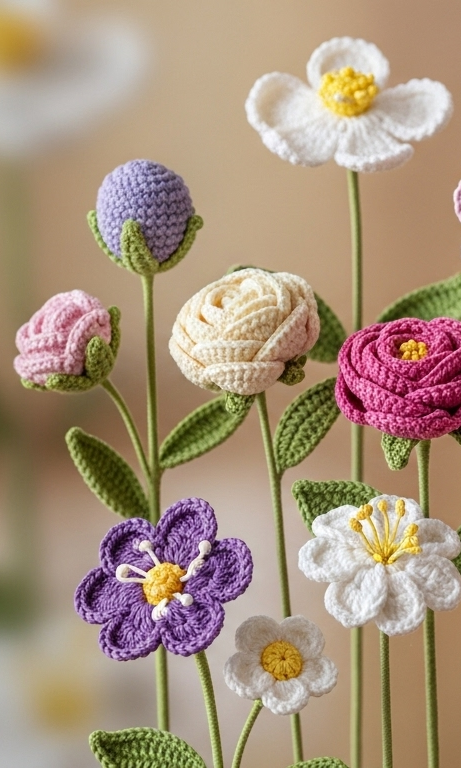
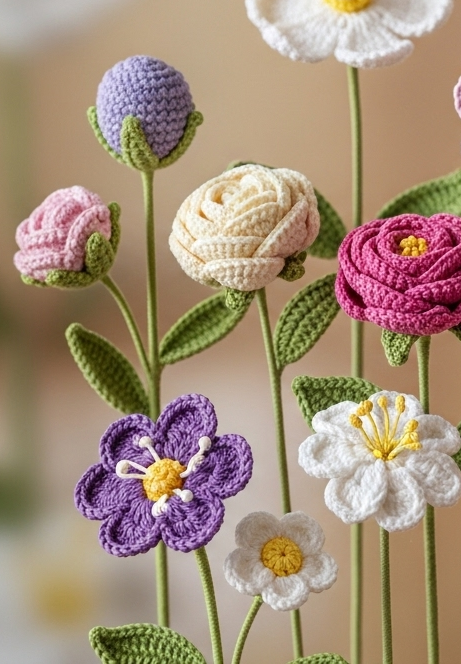
Frontend home page ui enhancement.

diff --git a/web-frontend/src/components/ProductCategories.tsx b/web-frontend/src/components/ProductCategories.tsx
@@ -1,4 +1,4 @@
-import { Button } from "./ui/button";
+import { Button } from "./ui/button"; 
 import { Card, CardContent } from "./ui/card";
 import { ImageWithFallback } from "./figma/ImageWithFallback";
 import { ArrowRight } from "lucide-react";
@@ -9,15 +9,13 @@ interface ProductCategoriesProps {
 }
 
 export function ProductCategories({ onNavigate, categories }: ProductCategoriesProps) {
-  // If categories are still loading (null or undefined), don't render the fallback static content —
-  // return null to avoid a flash of hardcoded categories on initial page load.
   if (categories == null) return null;
 
   const fallback = [
     {
       name: "Flowers",
       description: "Beautiful blooms that last forever",
-      image: "https://images.unsplash.com/photo-1575175090204-0a470102fc40?crop=entropy&cs=tinysrgb&fit=max&fm=jpg&ixid=M3w3Nzg4Nzd8MHwxfHNlYXJjaHwxfHxjcm9jaGV0JTIwZmxvd2VycyUyMGhhbmRtYWRlJTIwY29sb3JmdWx8ZW58MXx8fHwxNzU5MzE5NzUzfDA&ixlib=rb-4.1.0&q=80&w=1080&utm_source=figma&utm_medium=referral",
+      image: "https://images.unsplash.com/photo-1575175090204-0a470102fc40?crop=entropy&cs=tinysrgb&fit=max&fm=jpg&ixid=M3w3Nzg4Nzd8MHwxfHNlYXJjaHwxfHxjcm9jaGV0JTIwZmxvd2VycyUyMGhhbmRtYWRlJTIwY29sb3JmdWx8ZW58MXx8fHwxNzU5MzE5NzUzfDA&ixlib=rb-4.1.0&q=80&w=1080",
       page: "flowers",
       items: "50+ designs"
     },
@@ -51,28 +49,28 @@ export function ProductCategories({ onNavigate, categories }: ProductCategoriesP
     }
   ];
 
-  // Build image URLs: if image is already absolute (http/data) use as-is, otherwise prefix with the server root
   const API_BASE = (import.meta.env.VITE_API_BASE as string) || 'http://localhost:5000/api';
   const SERVER_ROOT = API_BASE.replace(/\/api\/?$/, '');
 
   const buildImageUrl = (img?: string) => {
     if (!img) return '';
     const trimmed = img.toString();
-    // absolute URLs or data URIs
     if (/^(https?:)?\/\//i.test(trimmed) || trimmed.startsWith('data:')) return trimmed;
-    // otherwise prefix with server root
     return `${SERVER_ROOT}${trimmed.startsWith('/') ? '' : '/'}${trimmed}`;
   };
 
-  const useCategories = categories && categories.length ? categories.map(c => ({
-    name: c.name,
-    description: c.content || c.metaDescription || '',
-    image: buildImageUrl(c.image),
-    page: c.slug || c.name.toLowerCase()
-  })) : fallback;
+  const useCategories = categories && categories.length
+    ? categories.map(c => ({
+        name: c.name,
+        description: c.content || c.metaDescription || '',
+        image: buildImageUrl(c.image),
+        page: c.slug || c.name.toLowerCase()
+      }))
+    : fallback;
 
   return (
-    <section className="py-16 md:py-24 bg-gradient-to-b from-background to-purple-50/30 dark:to-black">
+    <section className="pt-12 md:pt-16 pb-16 md:pb-24 bg-gradient-to-b from-background to-purple-50/30 dark:to-black">
+
       <div className="container mx-auto px-4 sm:px-6 lg:px-8">
         {/* Header */}
         <div className="text-center mb-12">
@@ -86,9 +84,9 @@ export function ProductCategories({ onNavigate, categories }: ProductCategoriesP
 
         {/* Categories Grid */}
         <div className="grid grid-cols-1 md:grid-cols-2 lg:grid-cols-3 gap-8">
-          {useCategories.map((category, index) => (
-            <Card 
-              key={category.name} 
+          {useCategories.map((category) => (
+            <Card
+              key={category.name}
               className="group hover:shadow-xl transition-all duration-300 border-0 shadow-lg bg-card backdrop-blur-sm overflow-hidden"
             >
               <CardContent className="p-0">
@@ -100,11 +98,17 @@ export function ProductCategories({ onNavigate, categories }: ProductCategoriesP
                   />
                   <div className="absolute inset-0 bg-gradient-to-t from-black/60 via-transparent to-transparent"></div>
                 </div>
-                
+
                 <div className="p-6">
                   <h3 className="text-xl font-semibold text-foreground mb-2">{category.name}</h3>
-                  <p className="text-muted-foreground mb-4 line-clamp-1 overflow-hidden text-ellipsis whitespace-nowrap">{category.description}</p>
-                  <Button variant="ghost" className="group/btn p-0 h-auto text-primary hover:text-primary-foreground hover:bg-primary" onClick={() => onNavigate?.(category.page || category.name.toLowerCase())}>
+                  <p className="text-muted-foreground mb-4 line-clamp-1 overflow-hidden text-ellipsis whitespace-nowrap">
+                    {category.description}
+                  </p>
+                  <Button
+                    variant="ghost"
+                    className="group/btn p-0 h-auto text-primary hover:text-primary-foreground hover:bg-primary"
+                    onClick={() => onNavigate?.(category.page || category.name.toLowerCase())}
+                  >
                     Shop {category.name}
                     <ArrowRight className="ml-2 h-4 w-4 group-hover/btn:translate-x-1 transition-transform" />
                   </Button>

diff --git a/web-frontend/src/components/Hero.tsx b/web-frontend/src/components/Hero.tsx
@@ -2,7 +2,7 @@ import { useState, useEffect } from "react";
 import { ChevronLeft, ChevronRight } from "lucide-react";
 import slideImage1 from "figma:asset/5dc731be39fd32b546dc973ac7c75beb72ad8fcc.png";
 import slideImage2 from "figma:asset/fbaacfcd6241ed9615bf5e82e637feb7f8f084af.png";
-import slideImage3 from "figma:asset/0ef96d7c27f45470723e63c6acb8f6ced3faa192.png";
+import slideImage3 from "figma:asset/0ef96d7c27f45470723e63c6acb8f6ced3faa192.png"
 
 interface HeroProps {
   onNavigate?: (page: string) => void;
@@ -55,6 +55,7 @@ export function Hero({ onNavigate }: HeroProps) {
     }, 3000);
 
     return () => clearInterval(interval);
+    // eslint-disable-next-line react-hooks/exhaustive-deps
   }, [currentSlide]);
 
   const handleNext = () => {
@@ -85,7 +86,8 @@ export function Hero({ onNavigate }: HeroProps) {
   };
 
   return (
-    <section className="relative w-full overflow-hidden" style={{ height: '90vh' }}>
+  // Reduced height so next section peeks through
+  <section className="relative w-full overflow-hidden mb-12" style={{ height: '75vh' }}>
       {slides.map((slide, index) => (
         <div
           key={slide.id}
@@ -151,6 +153,8 @@ export function Hero({ onNavigate }: HeroProps) {
                   backgroundImage: `url(${slide.image})`,
                   transform: index === currentSlide ? 'scale(1)' : 'scale(1.1)'
                 }}
+                role="img"
+                aria-label={slide.alt}
               />
               {/* Subtle gradient overlay for blend */}
               <div 
@@ -161,6 +165,8 @@ export function Hero({ onNavigate }: HeroProps) {
               ></div>
             </div>
           </div>
+
+          {/* dot indicators were here previously; moved to global container below for reliable visibility */}
         </div>
       ))}
 
@@ -216,3 +222,4 @@ export function Hero({ onNavigate }: HeroProps) {
     </section>
   );
 }
+

diff --git a/web-frontend/src/components/Footer.tsx b/web-frontend/src/components/Footer.tsx
@@ -57,7 +57,7 @@ export function Footer({ onNavigate, categories }: FooterProps) {
 
 
   return (
-    <footer className="bg-background border-t">
+  <footer className="border-t" style={{ backgroundColor: '#F3E8FF' }}>
       <div className="container mx-auto px-4 sm:px-6 lg:px-8">
         {/* Main Footer Content */}
         <div className="py-16 grid grid-cols-1 md:grid-cols-2 lg:grid-cols-4 gap-12">
